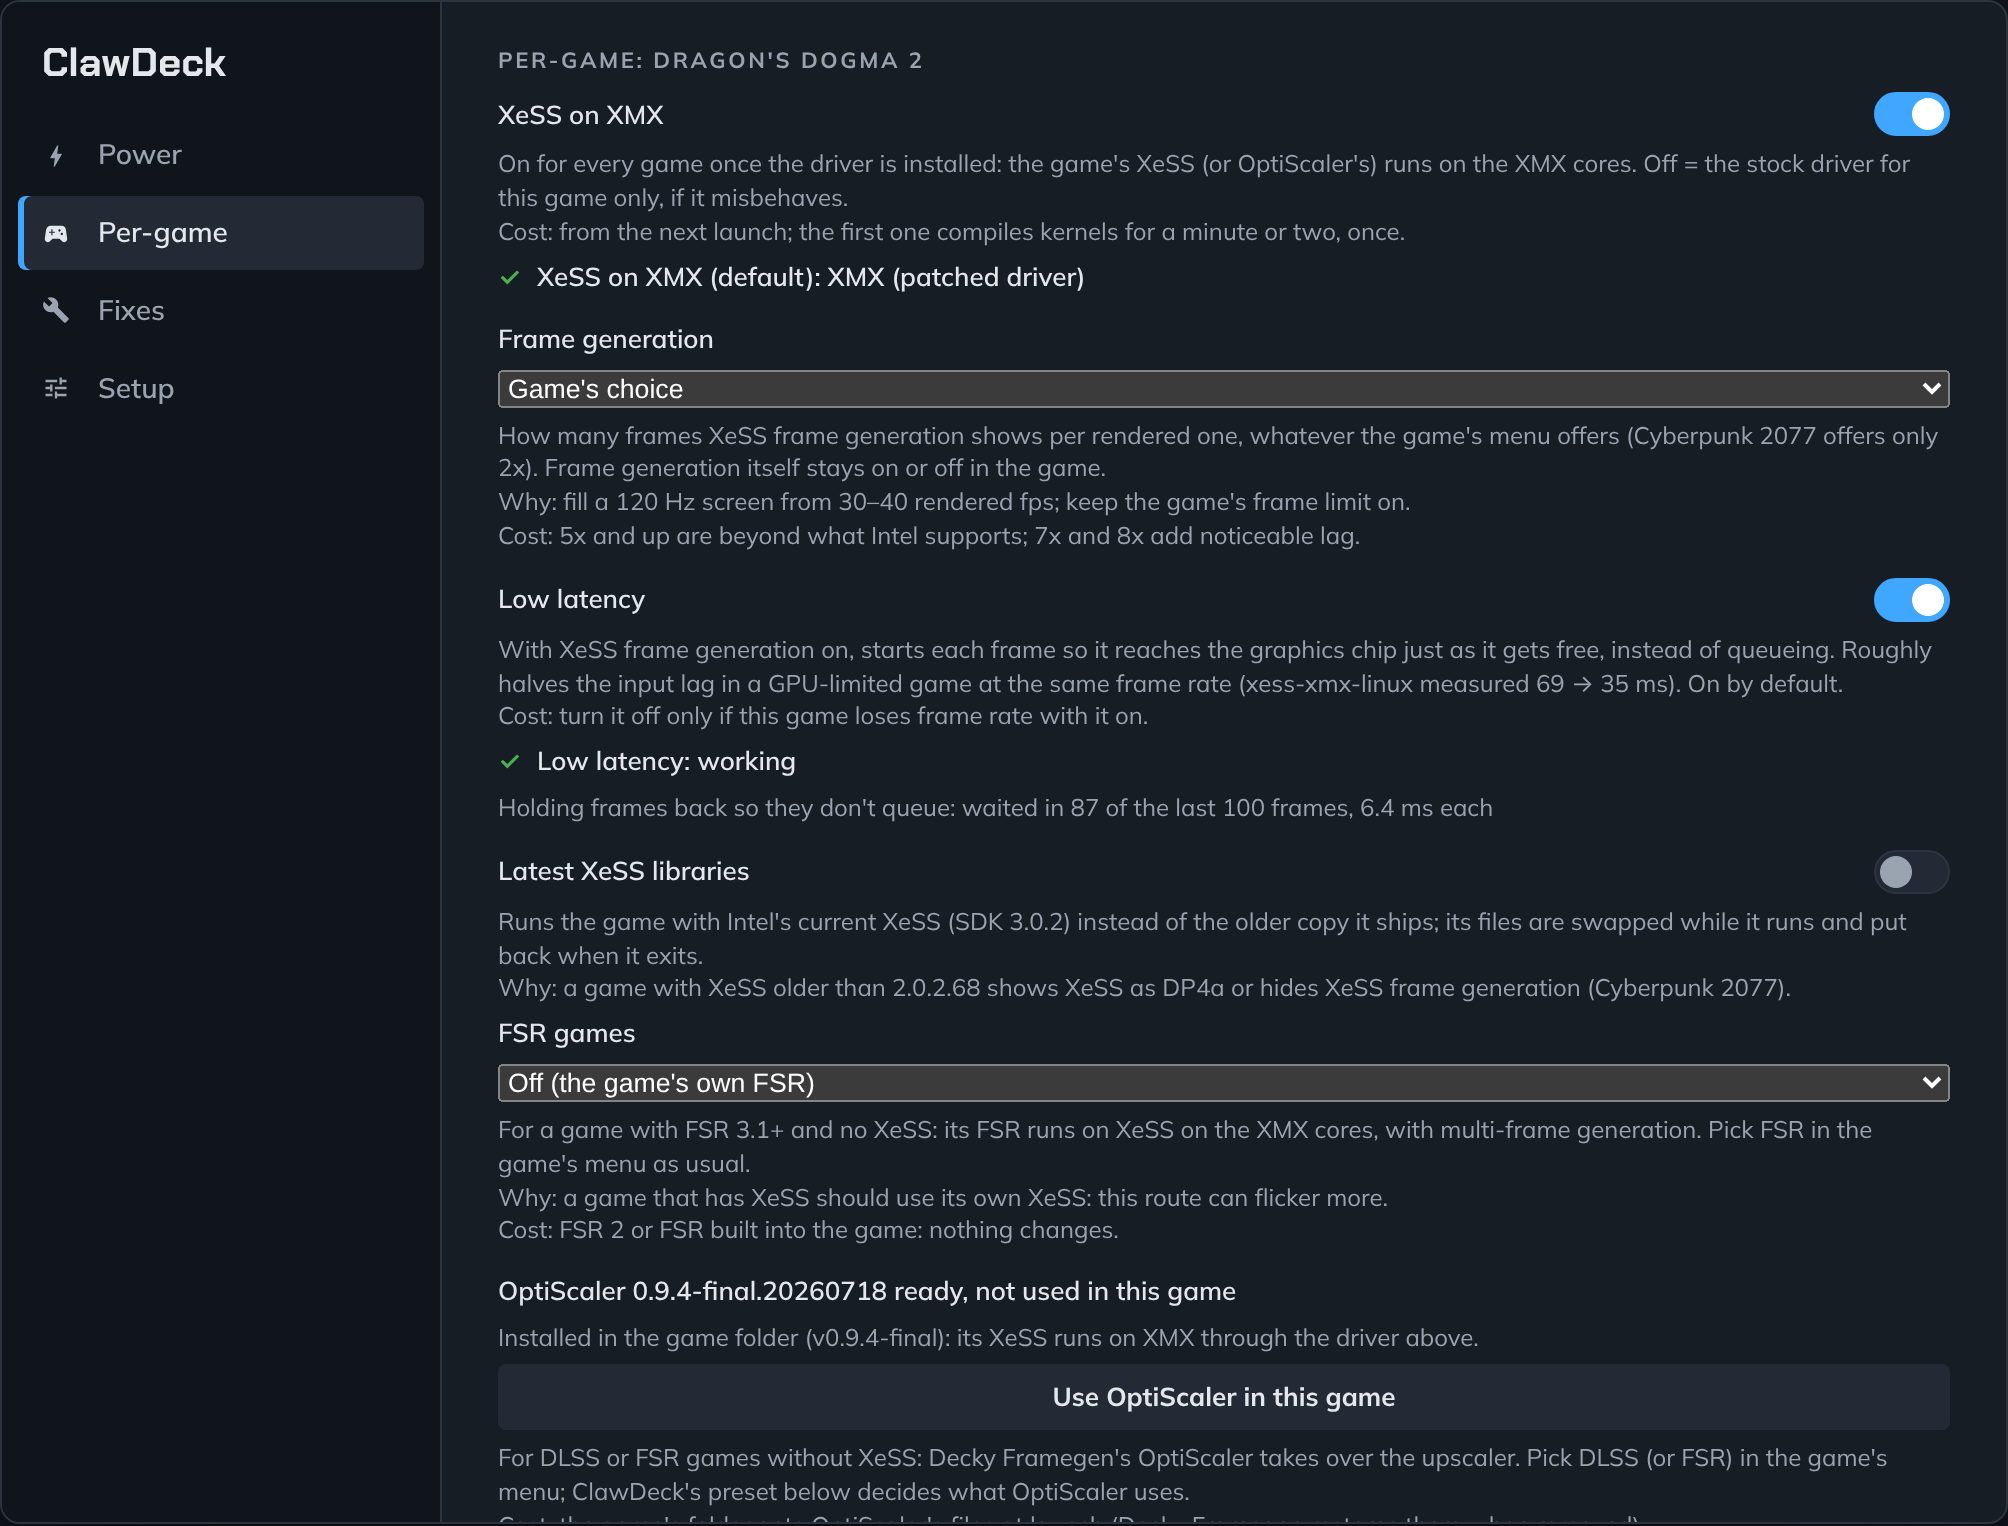
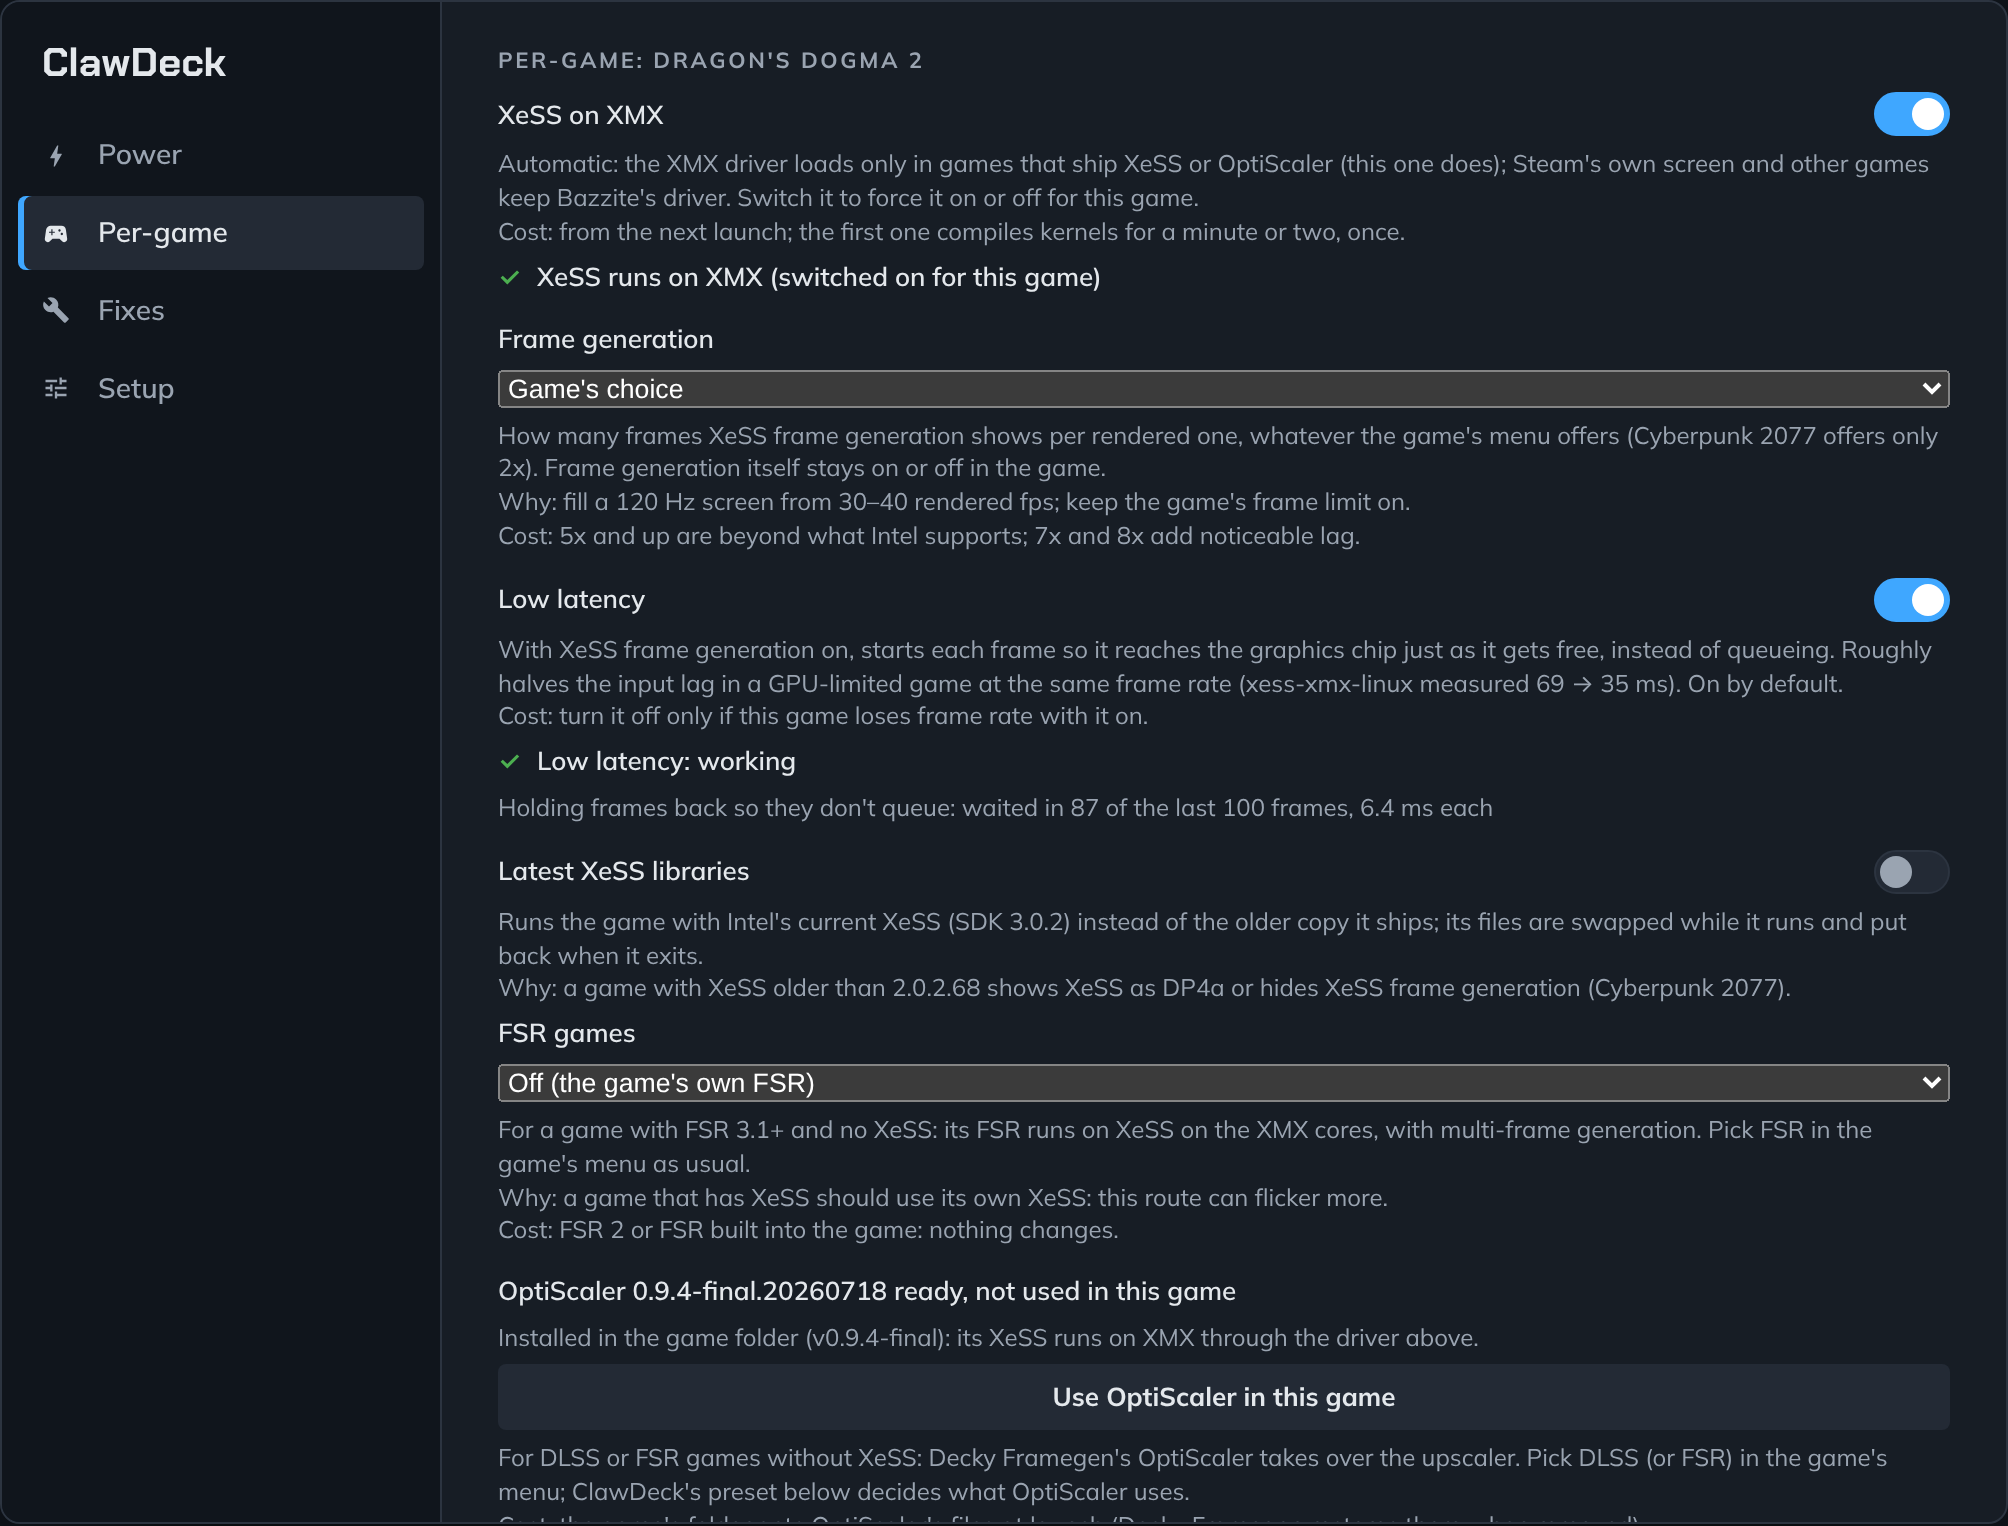
UI: Quick Access shows controls and status only, with an Explain switch (explanations stay on the full page); clearer chip power line; shorter XMX status
Claude-Session: https://claude.ai/code/session_019jJLUgw5uVPaAcLuRF5SqW

Changed region(s): [[0.247, 0.0924, 0.9572, 0.1848]]

diff --git a/src/tabs/Power.tsx b/src/tabs/Power.tsx
@@ -8,7 +8,7 @@ import {
 } from "../api";
 import { Advanced } from "../components/Advanced";
 import { LaunchWrapper } from "../components/LaunchWrapper";
-import { explain, Problem, Status } from "../components/Hint";
+import { explain, Problem, Status, useExplanations } from "../components/Hint";
 import { runningApp } from "../steam";
 
 const toast = (body: string) => toaster.toast({ title: "ClawDeck", body });
@@ -30,7 +30,7 @@ const EPP: { data: string; label: string }[] = [
 const backendName = (b: string | null | undefined) => (b === "rapl" ? "RAPL" : b === "hhd" ? "Handheld Daemon" : b === "msi-firmware" ? "MSI firmware" : "hardware");
 // one number in the main view: the sustained TDP the hardware reports back. The short boost limit (PL2) is shown
 // only under Advanced, so the line never reads like two different TDPs (maintainer, 2026-10-22).
-const reads = (st: PowerStatus | null) => `TDP ${st?.tdp_w ?? "?"} W (read back from ${backendName(st?.tdp_backend)})`;
+const reads = (st: PowerStatus | null) => `Chip now: ${st?.tdp_w ?? "?"} W (read back from ${backendName(st?.tdp_backend)})`;
 const ago = (s: number | null | undefined) => (s == null ? "" : s < 90 ? `${s} s ago` : `${Math.round(s / 60)} min ago`);
 
 /** Writes that follow a slider or a quick flick through a list: wait for the last value, write once, and let only the
@@ -47,6 +47,7 @@ const useLatest = () => {
 
 /** The Power panel: profile, TDP slider, Autotune and the read-back line; everything else under Advanced (§19). */
 export const PowerTab: FC<{ quick?: boolean }> = ({ quick }) => {
+  useExplanations();
   const [st, setSt] = useState<PowerStatus | null>(null);
   const [at, setAt] = useState<AutotuneStatus | null>(null);
   const [autotune, setAutotune] = useState(false);
@@ -93,7 +94,7 @@ export const PowerTab: FC<{ quick?: boolean }> = ({ quick }) => {
   const custom = profile === "custom";
   const onLimit = (r: LimitResult) => {
     toast(r.summary); setErr(r.ok ? null : r.error);
-    setLine(`TDP ${r.read?.tdp_w ?? "?"} W (read back from ${backendName(r.read?.backend)})`);
+    setLine(`Chip now: ${r.read?.tdp_w ?? "?"} W (read back from ${backendName(r.read?.backend)})`);
     refresh();
   };
   const pick = (id: string) => {
@@ -137,7 +138,8 @@ export const PowerTab: FC<{ quick?: boolean }> = ({ quick }) => {
           description={explain(`The power CPU and graphics share, ${lo}–${hi} W. Moving it makes a Custom profile; Autotune never goes above it.`,
             quick ? undefined : "Steam's TDP slider does nothing on the Claw 8 EX (PowerStation reports no TDP range for this chip), so ClawDeck sets the chip's own limit." + rapl25,
             quick ? undefined : "each watt more buys fps with play time and heat.")} />
-        <Status ok={err ? false : null} label={(line ?? reads(st)) + (thermalLine ? ` · ${thermalLine}` : "")}
+        <Status ok={err ? false : null} label={(running && st?.tdp_w != null && st.tdp_w !== tdp
+            ? `Chip now: ${st.tdp_w} W (Autotune, below your ${tdp} W)` : (line ?? reads(st))) + (thermalLine ? ` · ${thermalLine}` : "")}
           detail={thermalLine ? `Package ${at?.thermal?.temp_c ?? "?"} °C. thermald is paused while ClawDeck holds the TDP, so ClawDeck steps it down 2 W at a time above 95 °C until under 90 °C. Picking a profile or moving the slider sets it again.`
             : app ? app.name : "No game running: the profile applies when one starts"} />
         <Problem error={err} what="Power limit" />

diff --git a/src/pages.tsx b/src/pages.tsx
@@ -1,5 +1,8 @@
-import { ButtonItem, Navigation, PanelSection, PanelSectionRow, SidebarNavigation } from "@decky/ui";
-import { FC } from "react";
+import { ButtonItem, Navigation, PanelSection, PanelSectionRow, SidebarNavigation, ToggleField } from "@decky/ui";
+import { FC, useEffect, useState } from "react";
+
+import { getSetting, setSetting } from "./api";
+import { HelpContext } from "./components/Hint";
 import { MdBolt, MdBuild, MdSportsEsports, MdTune } from "react-icons/md";
 
 import { FixesTab } from "./tabs/Fixes";
@@ -21,8 +24,18 @@ export const openPage = (page = "power") => {
  * the read-back line after every change, nothing that needs a settings page. The full-screen page below has the
  * same four with the longer explanations and the health check's details.
  */
-export const QuickPanel: FC = () => (
-  <>
+export const QuickPanel: FC = () => {
+  const [help, setHelp] = useState(false);
+  useEffect(() => { getSetting("quick_help").then((v) => setHelp(!!v)); }, []);
+  return (
+  <HelpContext.Provider value={help}>
+    <PanelSection>
+      <PanelSectionRow>
+        <ToggleField label="Explain" checked={help} bottomSeparator="none"
+          description={help ? "What each control does, why you'd use it and what it costs." : "Show what each control does."}
+          onChange={(v) => { setHelp(v); setSetting("quick_help", v); }} />
+      </PanelSectionRow>
+    </PanelSection>
     <PowerTab quick />
     <PerGameTab quick />
     <FixesTab quick />
@@ -32,15 +45,18 @@ export const QuickPanel: FC = () => (
         <ButtonItem layout="below" onClick={() => openPage("power")}>More details</ButtonItem>
       </PanelSectionRow>
     </PanelSection>
-  </>
-);
+  </HelpContext.Provider>
+  );
+};
 
 /** The same four, one page each, navigated with the D-pad on the left like Steam's own settings. */
 export const FullPage: FC<{ page?: string }> = ({ page }) => (
+  <HelpContext.Provider value={true}>
   <SidebarNavigation title="ClawDeck" showTitle page={page} pages={[
     { title: "Power", icon: <MdBolt />, route: `${ROUTE}/power`, content: <PowerTab /> },
     { title: "Per-game", icon: <MdSportsEsports />, route: `${ROUTE}/game`, content: <PerGameTab /> },
     { title: "Fixes", icon: <MdBuild />, route: `${ROUTE}/fixes`, content: <FixesTab /> },
     { title: "Setup", icon: <MdTune />, route: `${ROUTE}/setup`, content: <SetupTab /> },
   ]} />
+  </HelpContext.Provider>
 );

diff --git a/src/tabs/PerGame.tsx b/src/tabs/PerGame.tsx
@@ -4,7 +4,7 @@ import { FC, useEffect, useState } from "react";
 
 import { gameStatus, setLaunch, FsrRoute, GameStatus, Launch, OptiPreset } from "../api";
 import { LaunchWrapper } from "../components/LaunchWrapper";
-import { explain, Note, Problem, Status } from "../components/Hint";
+import { explain, Note, Problem, Status, useExplanations } from "../components/Hint";
 import { getLaunchOptions, hasFgmod, hasWrapper, runningApp, setLaunchOptions, withFgmod, withoutFgmod, withWrapper } from "../steam";
 
 const toast = (body: string) => toaster.toast({ title: "ClawDeck", body });
@@ -33,6 +33,7 @@ const OPTI_OPTIONS: { data: OptiPreset; label: string }[] = [
  * (an environment file per game), so the first change adds the wrapper to the game's launch options.
  */
 export const PerGameTab: FC<{ quick?: boolean }> = ({ quick }) => {
+  useExplanations();
   const app = runningApp();
   const [gs, setGs] = useState<GameStatus | null>(null);
   const [err, setErr] = useState<string | null>(null);
@@ -91,7 +92,7 @@ export const PerGameTab: FC<{ quick?: boolean }> = ({ quick }) => {
           onChange={(v) => save({ xmx: perGame && v === !!scope?.auto ? null : v } as any)} />
         <Status ok={gs ? (xmxOn && xessOk ? true : (xmxOn && installed) || (!xmxOn && !wrapped) ? false : null) : null}
           label={!gs ? "XeSS: …" : !installed ? "XeSS: driver not installed (Setup)"
-            : xmxOn ? (xessOk ? `XeSS on XMX (${perGame ? (launch.xmx == null ? "automatic" : "on for this game") : "default"}): ${gs.xess.status.mode ?? "patched driver"}`
+            : xmxOn ? (xessOk ? `XeSS runs on XMX (${perGame ? (launch.xmx == null ? "automatic" : "switched on for this game") : "default"})`
               : gs.xess.status.state === "unknown" ? "XeSS on XMX from your next log-in (the session check hasn't run yet)" : "XeSS: patched driver not loading, DP4a fallback")
             : perGame ? (launch.xmx === false ? "XeSS: Bazzite's driver for this game (switched off)" : "Bazzite's driver: this game ships no XeSS or OptiScaler")
               : wrapped ? "XeSS: stock driver for this game (DP4a)" : "XMX off is saved, but ClawDeck isn't in this game's launch options yet, so the game still uses XMX"}

diff --git a/src/components/Hint.tsx b/src/components/Hint.tsx
@@ -1,12 +1,20 @@
 import { Field } from "@decky/ui";
-import { FC, ReactNode } from "react";
+import { createContext, FC, ReactNode, useContext } from "react";
 
 /**
  * The explanation every control carries (project UI rule): what it does, why you'd use it, what it costs. It goes in
  * the control's own `description`, so it sits inside the focusable row: moving the D-pad onto a control scrolls its
  * explanation into view with it. Nothing on a page is plain text the controller can't reach.
  */
-export const explain = (does: ReactNode, why?: ReactNode, cost?: ReactNode): ReactNode => (
+let shown = true;
+/** Quick Access hides the explanations unless its "Explain" switch is on (like the plugins people know: controls and
+ *  status first); the full-screen page always shows them. Each panel says which through HelpContext, and every
+ *  component that calls explain() starts its render with useExplanations(), so a re-render of one panel never uses
+ *  the other's choice. */
+export const HelpContext = createContext(true);
+export const useExplanations = () => { shown = useContext(HelpContext); return shown; };
+
+export const explain = (does: ReactNode, why?: ReactNode, cost?: ReactNode): ReactNode => (!shown ? undefined :
   <span style={{ whiteSpace: "normal" }}>
     {does}
     {why && <><br />Why: {why}</>}

diff --git a/src/components/LaunchWrapper.tsx b/src/components/LaunchWrapper.tsx
@@ -4,7 +4,7 @@ import { FC, useEffect, useState } from "react";
 
 import { getLaunch } from "../api";
 import { getLaunchOptions, hasWrapper, setLaunchOptions, withWrapper, withoutWrapper } from "../steam";
-import { explain, Note, Status } from "./Hint";
+import { explain, Note, Status, useExplanations } from "./Hint";
 
 /**
  * Autotune and every Per-game choice (XeSS XMX off, frame generation, FSR on XeSS, low latency, OptiScaler presets)
@@ -12,6 +12,7 @@ import { explain, Note, Status } from "./Hint";
  * row shows whether the running game has it and adds or removes it in Steam's own launch options with one tap.
  */
 export const LaunchWrapper: FC<{ appid: string; name: string }> = ({ appid, name }) => {
+  useExplanations();
   const [opts, setOpts] = useState<string | null>(null);
   const [wrapper, setWrapper] = useState("");
   const load = async () => { setWrapper((await getLaunch(appid)).wrapper.replace(/ %command%$/, "")); setOpts(await getLaunchOptions(appid)); };

diff --git a/src/tabs/Fixes.tsx b/src/tabs/Fixes.tsx
@@ -4,13 +4,14 @@ import { FC, useEffect, useState } from "react";
 
 import { getFixes, getHealth, runFix, setWideVrr, Fixes, Health } from "../api";
 import { confirmRestart } from "../components/confirm";
-import { explain, Problem, Status } from "../components/Hint";
+import { explain, Problem, Status, useExplanations } from "../components/Hint";
 
 const toast = (body: string) => toaster.toast({ title: "ClawDeck", body });
 
 /** What the hardware gets wrong out of the box: the VRR range (ClawLab's EDID fix), the Claw 8 EX face buttons, and
  *  the health check in one line. Install / remove buttons, not toggles: each one is a change to the system. */
 export const FixesTab: FC<{ quick?: boolean }> = ({ quick }) => {
+  useExplanations();
   const [f, setF] = useState<Fixes | null>(null);
   const [health, setHealth] = useState<Health[]>([]);
   const [busy, setBusy] = useState(false);

diff --git a/src/tabs/Setup.tsx b/src/tabs/Setup.tsx
@@ -4,12 +4,13 @@ import { FC, useEffect, useState } from "react";
 
 import { collectLogs, framegenInstall, framegenState, getHardware, selfTest, xessInstall, xessState, FramegenState, Hardware, SelfTest, XessState } from "../api";
 import { confirmUntested } from "../components/confirm";
-import { explain, Note, Problem, Status } from "../components/Hint";
+import { explain, Note, Problem, Status, useExplanations } from "../components/Hint";
 
 const toast = (body: string) => toaster.toast({ title: "ClawDeck", body });
 
 /** The XeSS XMX driver and Decky Framegen installs, the self-test and the log export. */
 export const SetupTab: FC<{ quick?: boolean }> = ({ quick }) => {
+  useExplanations();
   const [hw, setHw] = useState<Hardware | null>(null);
   const [x, setX] = useState<XessState | null>(null);
   const [fg, setFg] = useState<FramegenState | null>(null);

diff --git a/preview/mocks/react-shim.ts b/preview/mocks/react-shim.ts
@@ -1,4 +1,4 @@
 // The preview loads React from cdnjs (UMD global); these shims point the bundle's imports at it.
 const R = (window as any).React;
 export default R;
-export const { useState, useEffect, useRef, useMemo, useCallback, Fragment, createElement } = R;
+export const { useState, useEffect, useRef, useMemo, useCallback, useContext, createContext, Fragment, createElement } = R;
